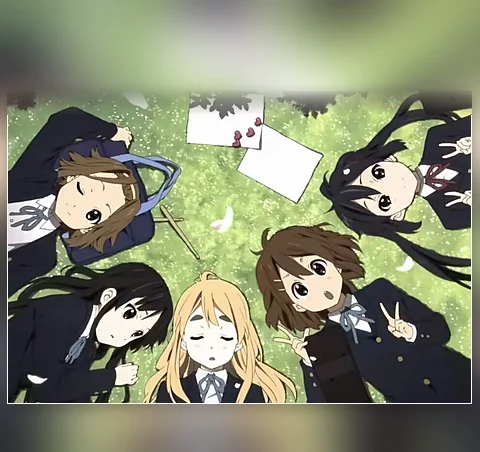
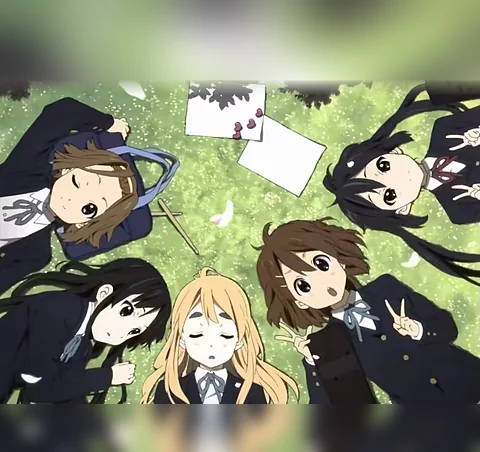
v207：4 套合影主题重做（满幅无贴片感），SW v110

diff --git a/sw.js b/sw.js
@@ -2,7 +2,7 @@
  * 策略：网络优先 + 缓存兜底 —— 在线永远拿到最新版本（JS/CSS/页面），
  *       断网时自动回退到最近一次缓存的资源，避免"旧默认数据/旧代码"。
  */
-const CACHE = 'sp-cache-v109';
+const CACHE = 'sp-cache-v110';
 const ASSETS = [
   './',
   './index.html',
